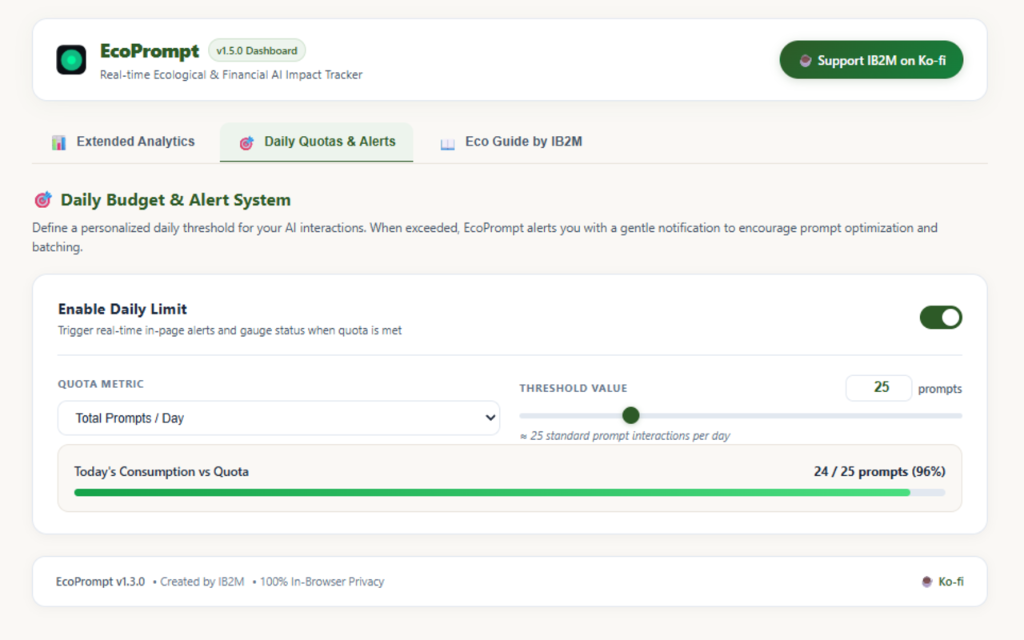
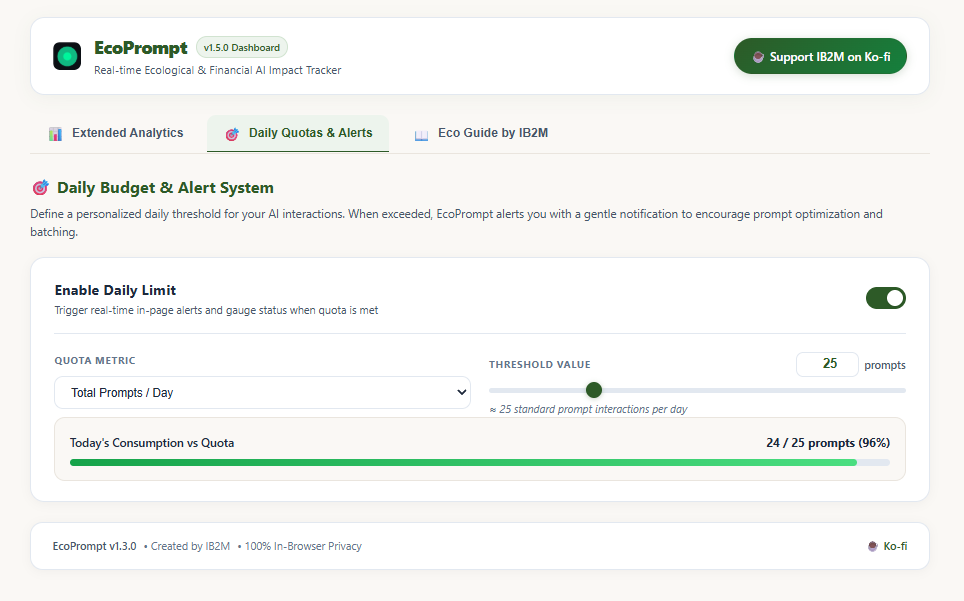
docs & promo: update screenshots for ChatGPT, Gemini, Claude and Dashboard

diff --git a/README.md b/README.md
@@ -17,19 +17,19 @@
   <a href="https://ko-fi.com/ib2m_official"><img src="https://img.shields.io/badge/Support-Ko--fi-FF5E5B?style=flat-square&logo=kofi&logoColor=white" alt="Support on Ko-fi" /></a>
 </p>
 
-<p align="center">
-  <img src="assets/promo/ecoprompt-banner-horizontal.jpg" alt="EcoPrompt Banner" width="100%" />
-</p>
-
 ## 📸 Preview Gallery
 
 <p align="center">
-  <img src="assets/promo/ecoprompt-card-feature.jpg" alt="EcoPrompt Feature Overview" width="48%" />
-  <img src="assets/promo/ecoprompt-dashboard-analytics.png" alt="EcoPrompt Interactive Analytics Dashboard" width="48%" />
+  <img src="assets/promo/ecoprompt-banner-horizontal.jpg" alt="EcoPrompt Banner" width="100%" />
 </p>
 <p align="center">
-  <img src="assets/promo/ecoprompt-dashboard-quotas.png" alt="EcoPrompt Daily Quota System" width="48%" />
-  <img src="assets/promo/ecoprompt-dashboard-guide.png" alt="EcoPrompt Eco Guide by IB2M" width="48%" />
+  <img src="assets/promo/ecoprompt-dashboard-analytics.png" alt="EcoPrompt Analytics Dashboard" width="48%" />
+  <img src="assets/promo/ecoprompt-dashboard-quotas.png" alt="EcoPrompt Quotas & Alerts" width="48%" />
+</p>
+<p align="center">
+  <img src="assets/promo/ecoprompt-popup-chatgpt.png" alt="EcoPrompt on ChatGPT" width="31%" />
+  <img src="assets/promo/ecoprompt-popup-claude.png" alt="EcoPrompt on Claude" width="31%" />
+  <img src="assets/promo/ecoprompt-toast-gemini.png" alt="EcoPrompt Toast on Gemini" width="31%" />
 </p>
 
 ---
